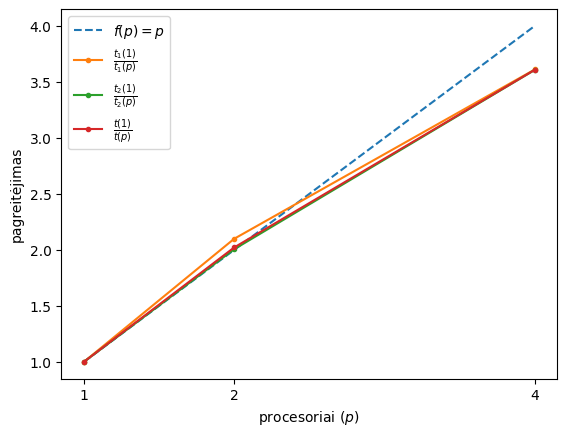
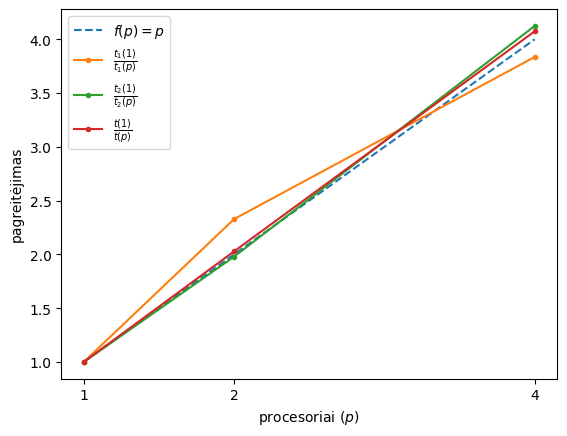
update report

diff --git a/parallel-programming/task-1/README.md b/parallel-programming/task-1/README.md
@@ -4,37 +4,83 @@
 
 ### Parametrų parinktis
 
+Parametrai parinkti eksperimentiniu būdu.
+
 | numDP | numCL |
 | :---: | :---: |
 | 5000  |  55   |
 
 | $\overline{t_1}(1)$ | $\overline{t_2}(1)$ |
-| :------------: | :------------: |
-|     4.2506     |    19.9500     |
+| :-----------------: | :-----------------: |
+|       4.7148        |       24.4358       |
 
 ### Teorinio pagreitėjimo vertinimas
 
 ```math
 \begin{align}
-\alpha&\approx 0.1756 \\
-\beta&\approx 0.8244 \\
-\tilde{S}_2&=\frac{1}{\alpha+\frac{\beta}{2}}\approx 1.7012\\
-\tilde{S}_4&=\frac{1}{\alpha+\frac{\beta}{4}}\approx 2.6198\\
-\tilde{S}_{max}&=\lim_{p\to\infty}\frac{1}{\alpha+\frac{\beta}{p}}=\frac{1}{\alpha}\approx 5.6947\\
+\alpha&\approx 0.1617 \\
+\beta&\approx 0.8383 \\
+\tilde{S}_2&=\frac{1}{\alpha+\frac{\beta}{2}}\approx 1.7215\\
+\tilde{S}_4&=\frac{1}{\alpha+\frac{\beta}{4}}\approx 2.6931\\
+\tilde{S}_{max}&=\lim_{p\to\infty}\frac{1}{\alpha+\frac{\beta}{p}}=\frac{1}{\alpha}\approx 6.1827\\
 \end{align}
 ```
 
 ## Bendros atminties lygiagrečiojo algoritmo sudarymas
 
-Visų sprendinių perrinkimas
+Abejoms užduoties dalims išlygiagretinti buvo naudojamas omp užduočių konceptas.
 
 ## Pirma dalis
+
+### Algoritmo sudarymas
+
+Kadangi išorinis ciklas keičia masyvą `X` - jo lygiagretinti negalime iš esmės nekeisdami programos kodo, todėl jį vykdo viena gija, tačiau galime sukurti `omp` užduotis brangioms, pasikartojančioms `evaluateSolution` procedūroms, kurias vykdys kelios gijos. Kadangi ieškome geriausio sprendinio turime užtikrinti, kad sprendinio priskyrimas būtų atomiška operacija, todėl ją pažymime su `critical` direktyva. Taip pat svarbu pastebėti, kad originaliame užduoties kode geriausias sprendinys priskiriamas iš keliose gijose keičiamo `X`, todėl turime kiekvienai gijai padaryti po kopiją, kad išvengtume "race conditions". 
+
+### Kodas
+
+```cpp
+#pragma omp parallel
+{
+    #pragma omp single
+    {
+        while (increaseX(X, numX - 1, numCL) == true)
+        {
+            int threadLocalX[numX];
+            memcpy(threadLocalX, X, sizeof(threadLocalX));
+
+            #pragma omp task firstprivate(threadLocalX) private(u) shared(bestU, bestX, numX)
+            {
+                u = evaluateSolution(X);
+
+                #pragma omp critical
+                {
+                    if (u > bestU)
+                    {
+                        bestU = u;
+                        for (int i = 0; i < numX; i++)
+                            bestX[i] = threadLocalX[i];
+                    }
+                }	
+            }
+        }
+    }
+}
+```
+
+### Rezultatas
 
 ![Plot 1](./plot-1.png)
 
 Čia $p$ - procesorių skaičius, $t(p)$ - eksperimentiniu būdu išmatuotas visos programos veikimo laikas, $t_2(p)$ - eksperimentiniu būdu išmatuotas sprendinio paieškos laikas, $\tilde{S}_p$ - teorinis programos veikimo laiko pagreitėjimas.
 
 ## Antra dalis
+
+### Algoritmo sudarymas
+
+Galime pastebėti, kad kiekviena matricos eilutė yra inicializuojama individualiai, todėl darbą būtų galima padalinti kelioms gijoms, tačiau yra problema - kiekviena matricos eilutė yra vienu nariu ilgesnė nei praeita, jei tolygiai paskirstytume eilutes kelioms gijoms - jū darbas būtų labai nevienodas, todėl šioje situacijoje geriau naudoti `omp` užduotis.
+
+```c++
+```
 
 ![Plot 2](./plot-2.png)
 
